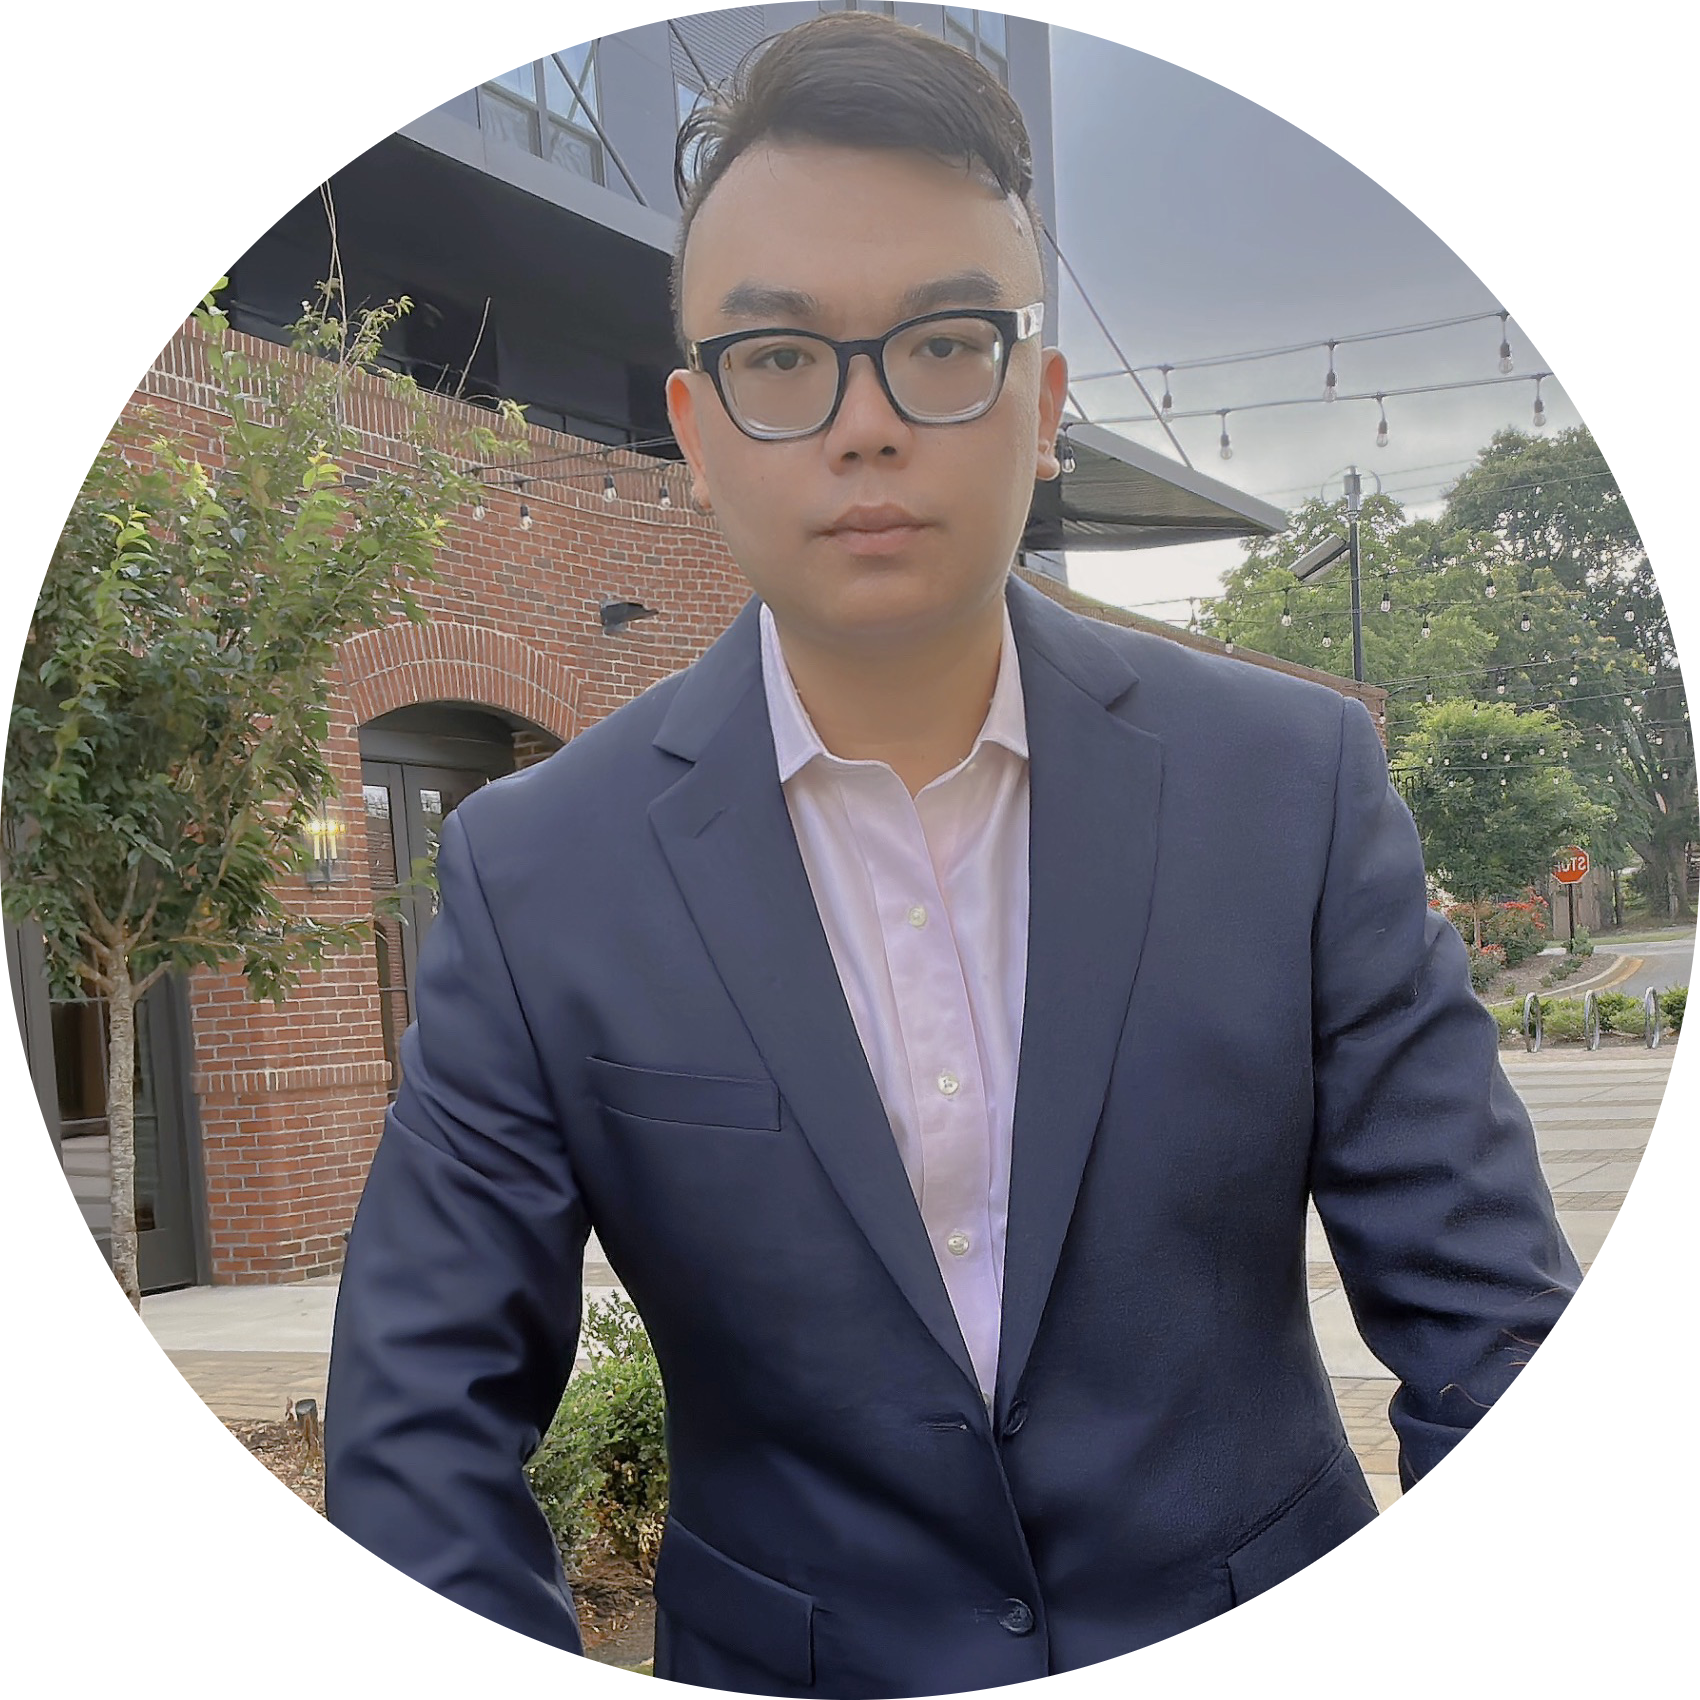
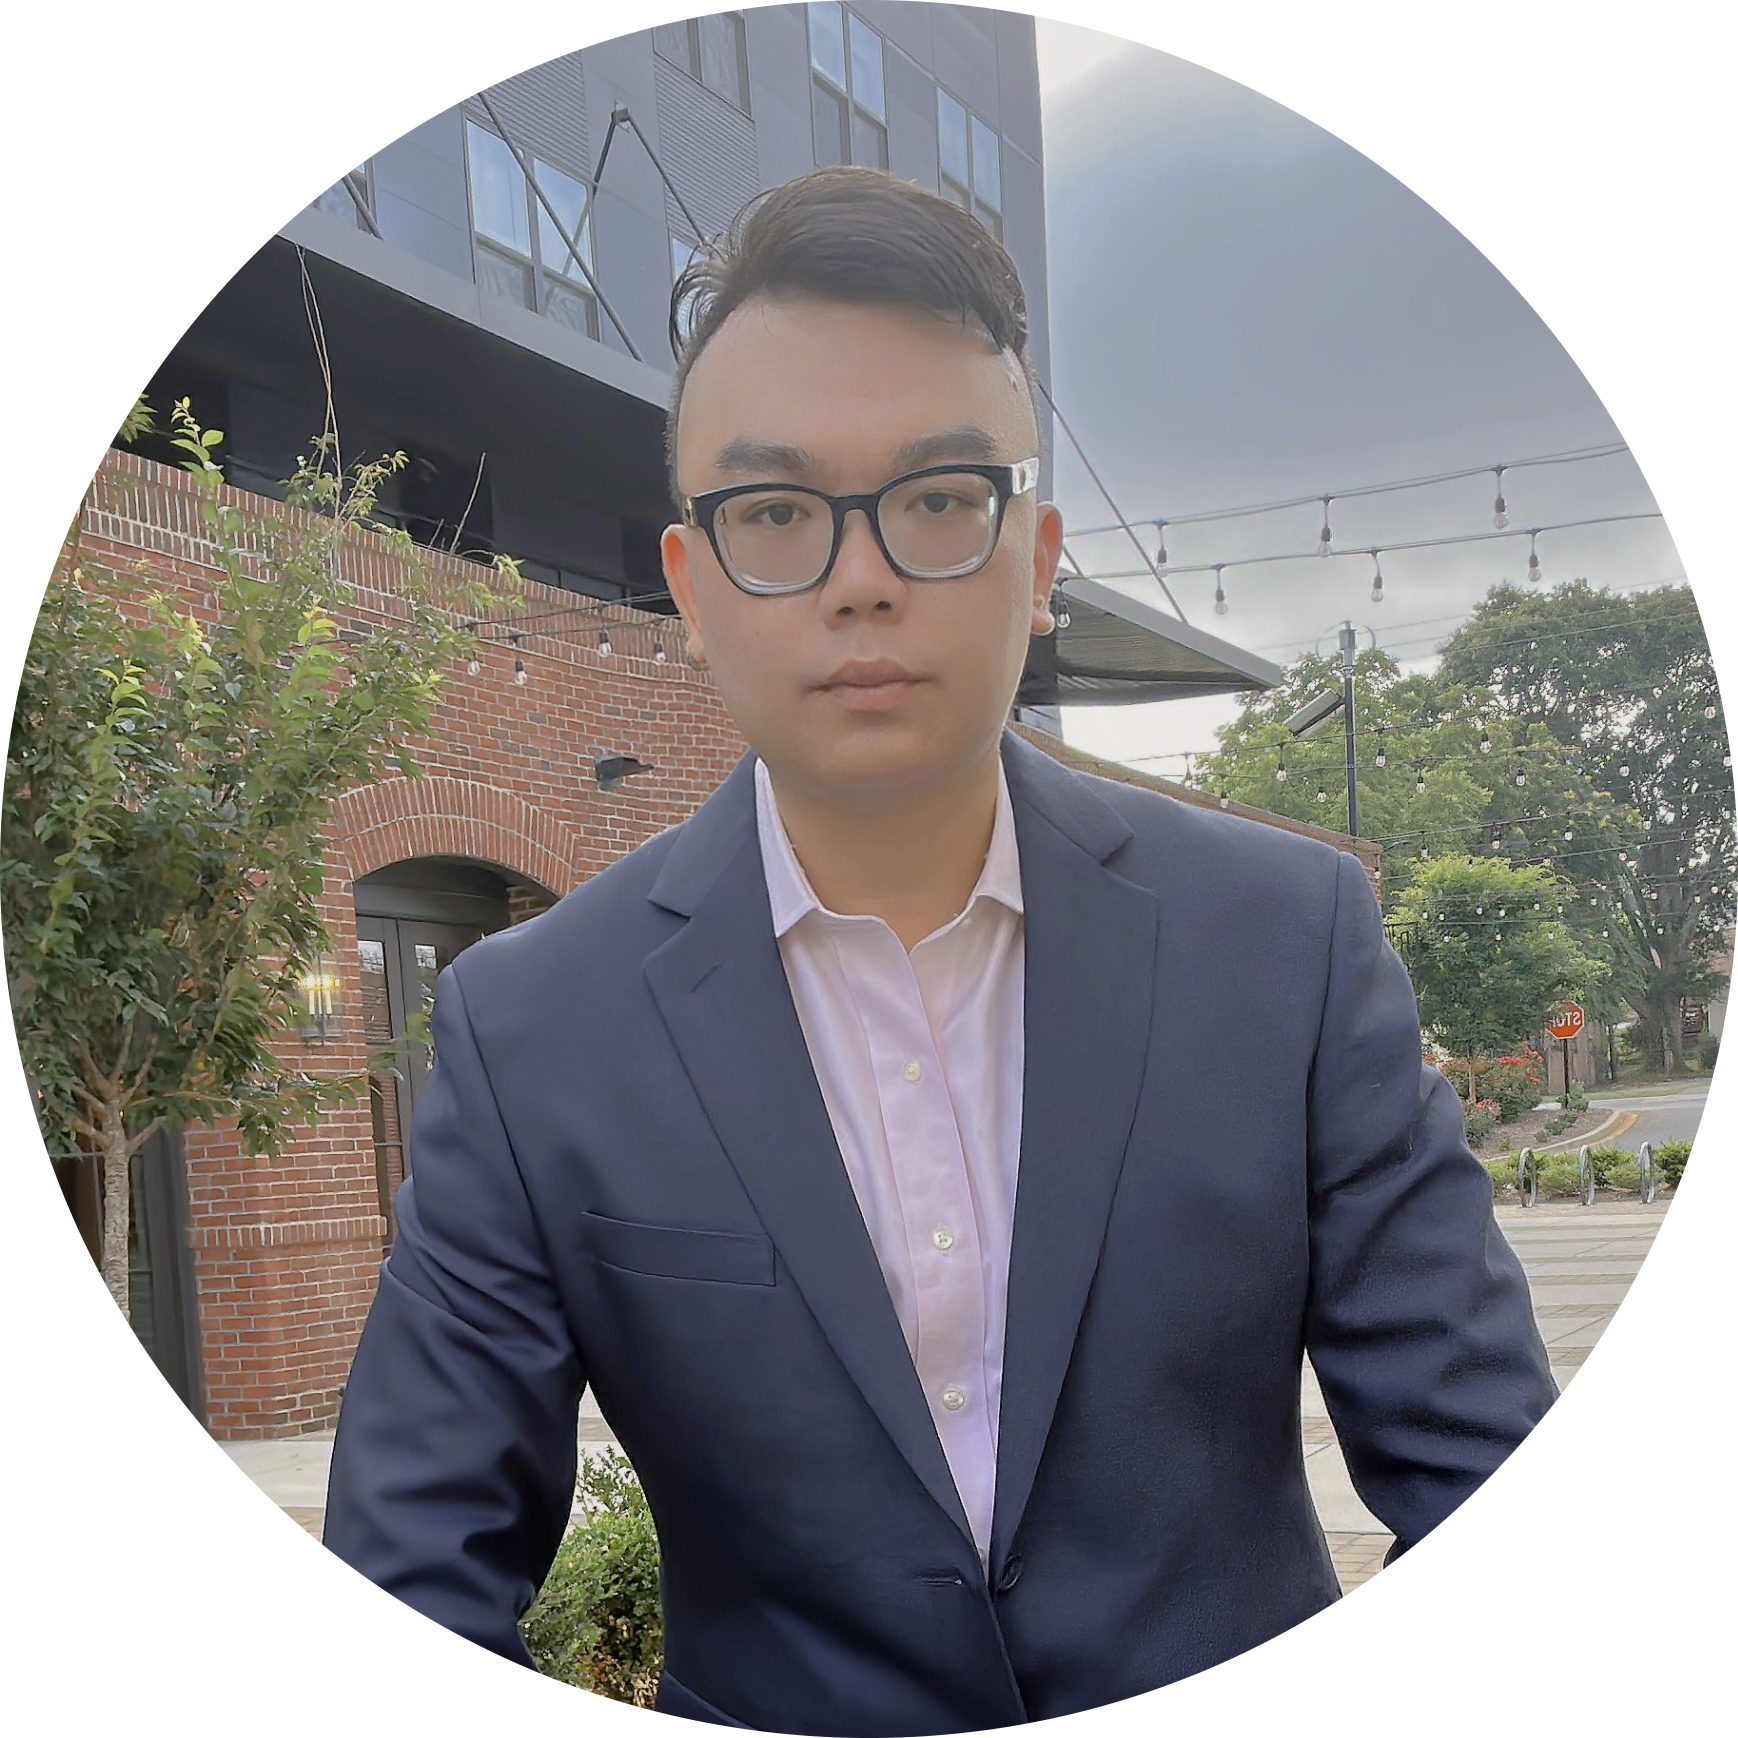
figure

diff --git a/links.html b/links.html
@@ -40,7 +40,7 @@
         <h3><p class="view" style="font-family: Arial"><a href="https://jacquesyl.github.io/links.html">Links</a></p></h3>
         <!-- <h3><p class="view" style="font-family: Arial"><a href="https://jacquesyl.github.io/blog.html">Blog</a></p></h3> -->
         
-  <p class="view"><img src="images/circle_cropped.png" width=220 height=220></p>
+  <p class="view"><img src="images/circle_cropped2.png" width=220 height=220></p>
   <!-- <p> I am a 4th-year Ph.D. Candidate in Finance. If you want to reach me, please email me at <a href="mailto:ylu28@uncc.edu">ylu28@uncc.edu</a> </p>-->
   </header>
   
